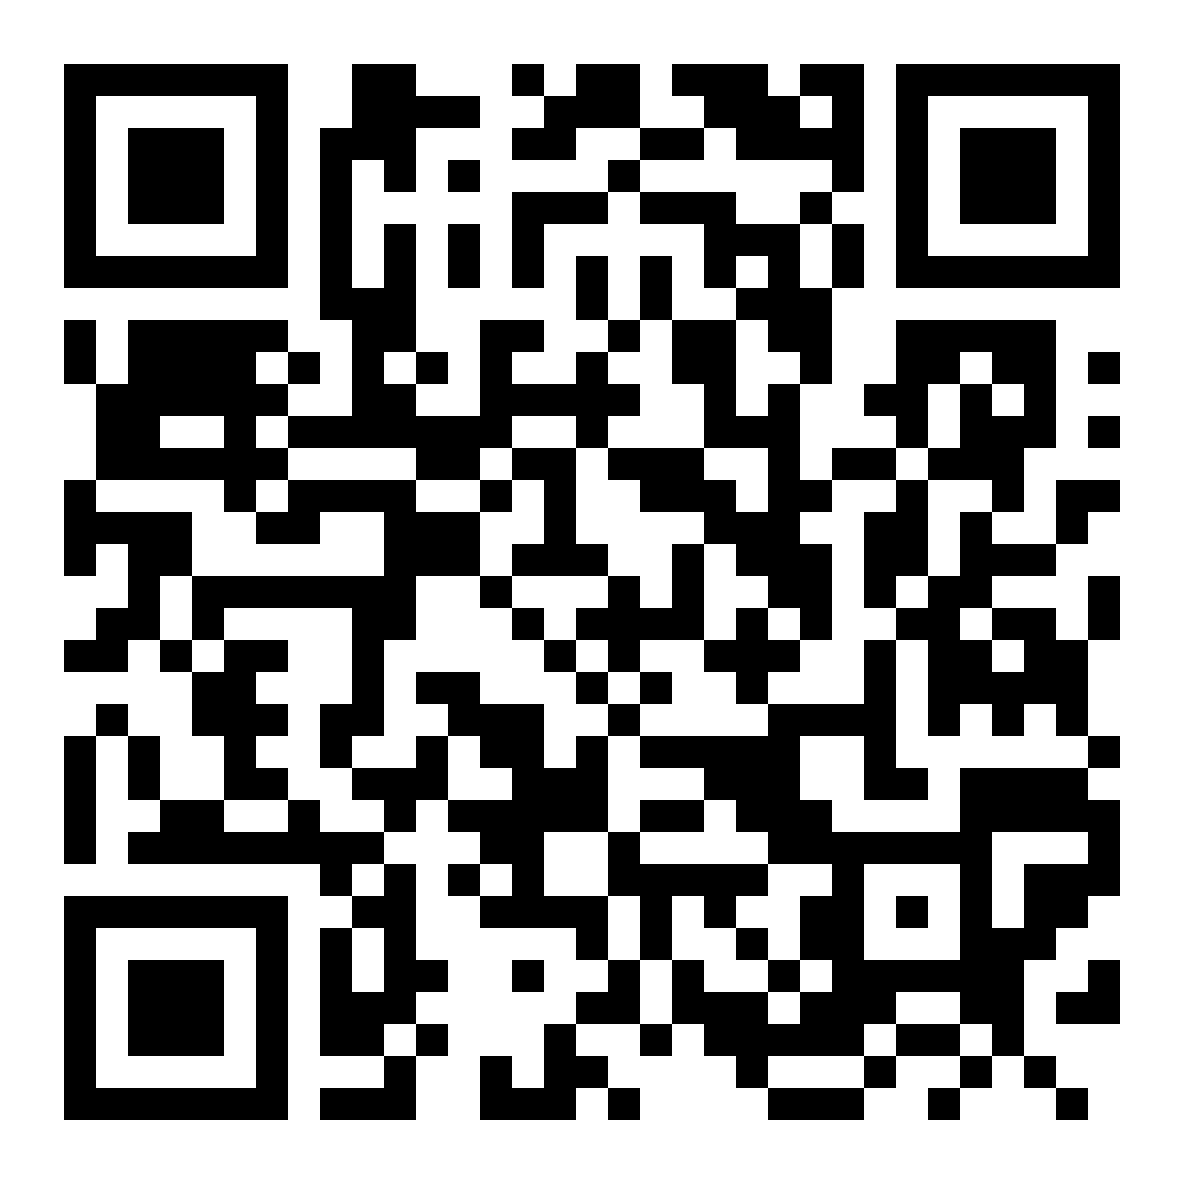
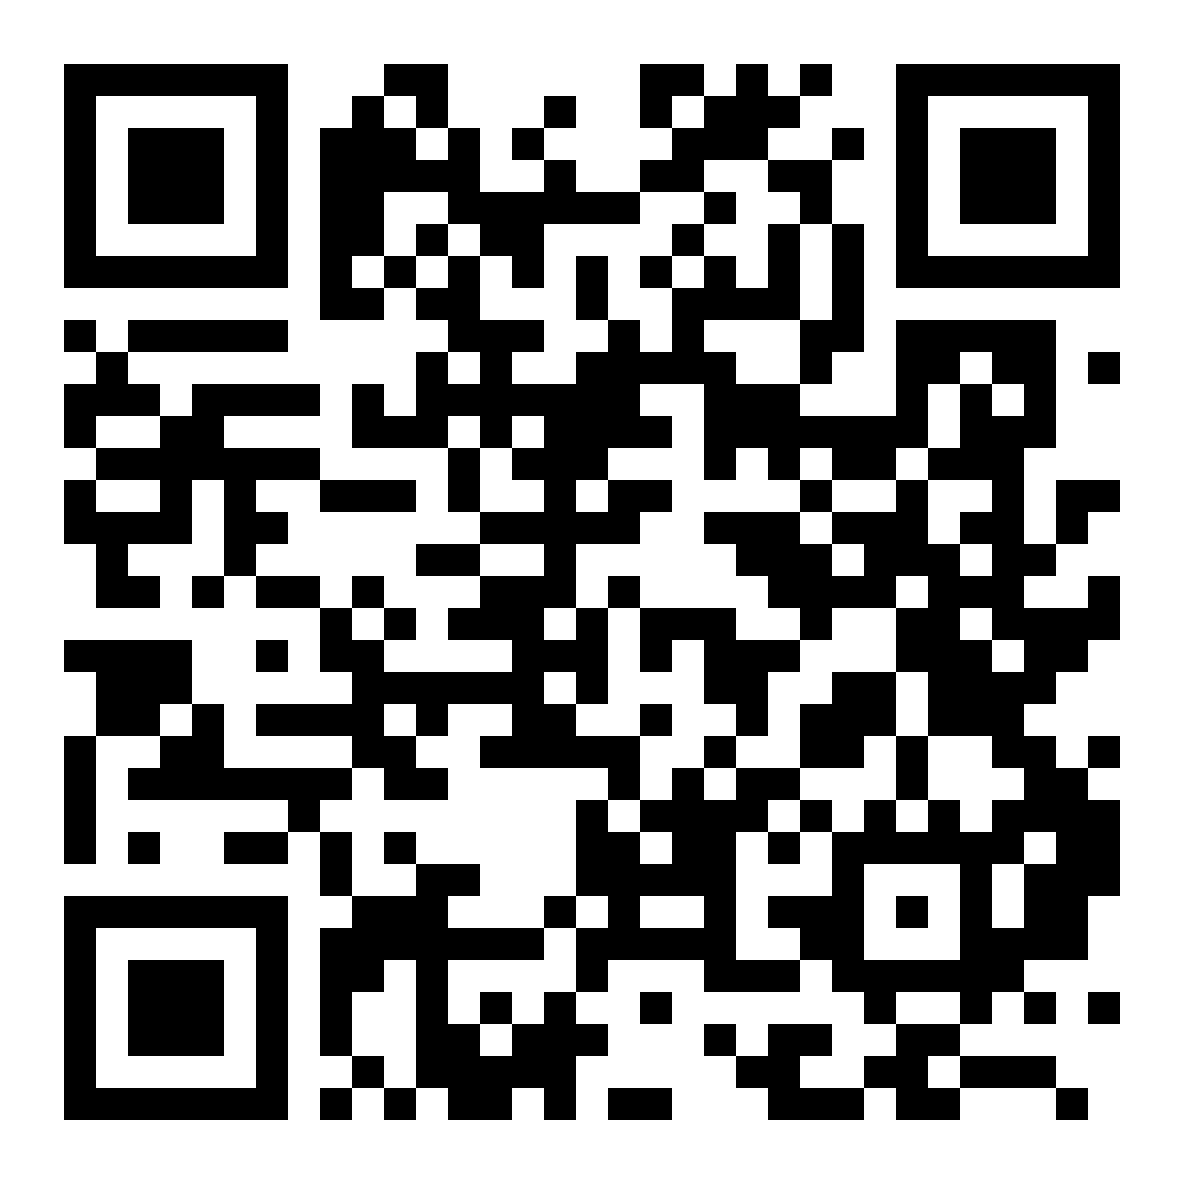
agrego el qr actualizado

Changed region(s): [[0.0312, 0.0312, 0.9375, 0.9688], [0.8125, 0.7812, 0.9688, 0.9375], [0.9062, 0.3438, 0.9688, 0.375]]

diff --git a/scripts/admin2list.js b/scripts/admin2list.js
@@ -51,7 +51,7 @@ auth.onAuthStateChanged(user => {
               </div>
             </div>
             <div class="col">
-            <a href="tracking.html" target="_blank">Tracking</a>
+            <a href="tracking.html" target="_blank"><img src="img/qrcode.png" class="img-qr" alt="qr del tracking"></a>
           </div>
           </div>
             </div>`
